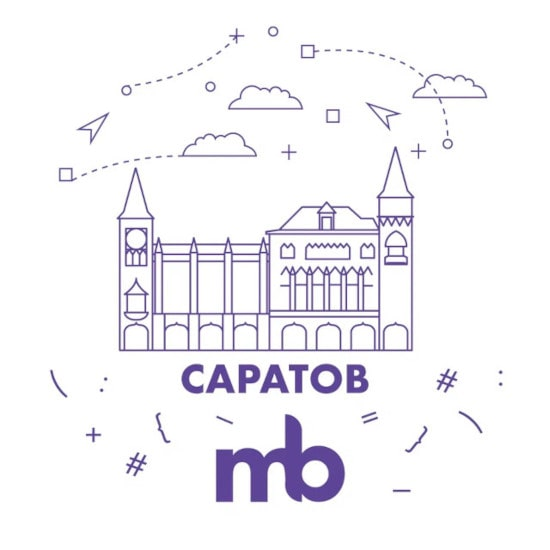
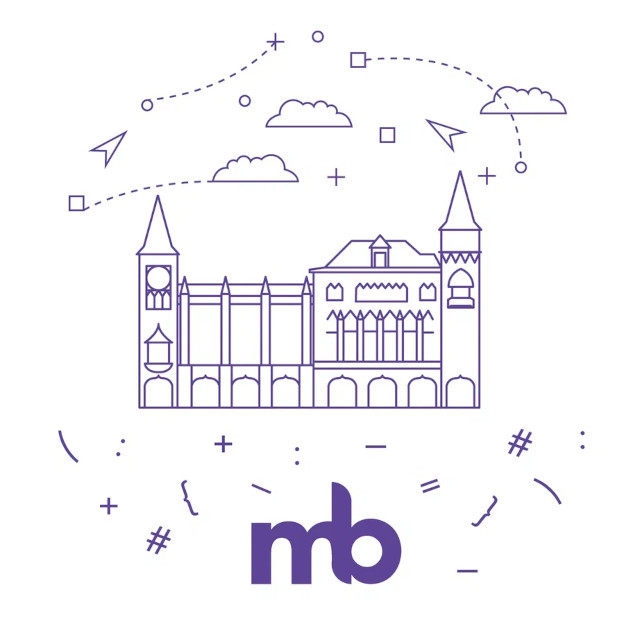
Update map and community page.

Changed region(s): [[0.3091, 0.6491, 0.68, 0.7418]]

diff --git a/apps/website/src/assets/scss/pages/community.scss b/apps/website/src/assets/scss/pages/community.scss
@@ -13,17 +13,93 @@
  * See the License for the specific language governing permissions and
  * limitations under the License.
  */
- 
+
 .CommunityPage .ContentPage .NotFoundLottie {
     width: 315px;
     margin: -53px auto -96px auto;
 }
 
-.CommunityPage .ContentPage .CityImage img {
-    width: 100%;
+.CommunityPage .ContentPage .CityImage {
     border-radius: 20px;
+    background-color: white;
+    padding: 10px;
+    box-sizing: border-box;
+    position: relative;
+    height: 220px;
+    overflow: hidden;
+    width: 100%;
+}
+
+.CommunityPage .ContentPage .CityImage img {
+    border-radius: 20px;
+    position: absolute;
+    top: 50%;
+    left: 50%;
+    transform: translate(-50%, -50%);
+    z-index: 2;
+    height: 100%;
+}
+
+.CommunityPage .ContentPage .CityImage .MuiCircularProgress-root {
+    position: absolute;
+    top: calc(50% - 10px);
+    left: calc(50% - 10px);
 }
 
 .ThemeDark .CommunityPage .ContentPage .CityImage img {
     opacity: 0.9;
+}
+
+// Chips Expert
+.ContentPage .CountryChips .MuiChip-root {
+    color: white;
+    border: none;
+}
+
+.ContentPage .CountryChips .MuiChip-root {
+    background-color: #4f4f4f;
+}
+
+.ContentPage .CountryChips .MuiChip-root.Country-Армения {
+    background-color: #ed941b;
+}
+
+.ContentPage .CountryChips .MuiChip-root.Country-Беларусь {
+    background-color: #01782E;
+}
+
+.ContentPage .CountryChips .MuiChip-root.Country-Грузия {
+    background-color: #F60003;
+}
+
+.ContentPage .CountryChips .MuiChip-root.Country-Казахстан {
+    background-color: #01AAC4;
+}
+
+.ContentPage .CountryChips .MuiChip-root.Country-Кыргызстан {
+    background-color: #dfbd00;
+}
+
+.ContentPage .CountryChips .MuiChip-root.Country-ОАЭ {
+    background-color: #020708;
+}
+
+.ContentPage .CountryChips .MuiChip-root.Country-Россия {
+    background-color: #061A75;
+}
+
+.ContentPage .CountryChips .MuiChip-root.Country-Таджикистан {
+    background-color: #018f00;
+}
+
+.ContentPage .CountryChips .MuiChip-root.Country-Тайланд {
+    background-color: #1c44ad;
+}
+
+.ContentPage .CountryChips .MuiChip-root.Country-Турция {
+    background-color: #bb0c17;
+}
+
+.ContentPage .CountryChips .MuiChip-root.Country-Узбекистан {
+    background-color: #0094AF;
 }

diff --git a/apps/website/src/pages/community/elements/BlockCities.js b/apps/website/src/pages/community/elements/BlockCities.js
@@ -40,6 +40,8 @@ import {
     Select,
     TextField,
     Typography,
+    CircularProgress,
+    Chip,
 } from '@mui/material';
 
 export function BlockCities(props) {
@@ -66,7 +68,7 @@ export function BlockCities(props) {
     const content = []
     props.cities?.forEach((item) => {
         // Get localization data
-        const fullName = `${Helper.locate(item, 'name', language)} ${Helper.locate(item, 'name', language)}`
+        const fullName = Helper.locate(item, 'name', language)
         const countryName = Helper.locate(item.country, 'name', language)
 
         // Filter country
@@ -88,8 +90,22 @@ export function BlockCities(props) {
                         <CardContent>
                             <Stack spacing={1.5}>
                                 <Box className={'CityImage'}>
-                                    <img src={item.image} alt={fullName} />
+                                    <Stack>
+                                        <img src={item.image} alt={fullName} />
+                                        <CircularProgress size={24} />
+                                    </Stack>
                                 </Box>
+                                <Typography gutterBottom variant="h5" component="div" sx={{
+                                    overflow: 'hidden',
+                                    textOverflow: 'ellipsis'
+                                }}>
+                                    {fullName}
+                                </Typography>
+
+                                <Stack className={'CountryChips'} spacing={0.5} direction={'row'} sx={{marginTop: 1.6}}>
+                                    <Chip className={`Country-${item.country.name}`} label={countryName} variant="outlined" />
+                                </Stack>
+
                                 <Stack direction={'row'} justifyContent="flex-end">
                                     <Button
                                         color='primary'

diff --git a/apps/website/src/pages/home/elements/BlockAbout.js b/apps/website/src/pages/home/elements/BlockAbout.js
@@ -15,7 +15,13 @@
  */
 
 import * as React from 'react';
-import {DataImages, LocalizationContext, RouteContext} from '../../../base';
+import {
+    DataImages,
+    LocalizationContext,
+    RouteContext,
+    useCacheStorage,
+    CacheKeys,
+} from '../../../base';
 import {
     useTheme,
     useMediaQuery,
@@ -31,6 +37,7 @@ export function BlockAbout(props) {
     const isLG = useMediaQuery(theme.breakpoints.down('lg'))
     const {t} = React.useContext(LocalizationContext)
     const {route, routes} = React.useContext(RouteContext)
+    const darkMode = useCacheStorage(CacheKeys.darkMode, false)
 
     return (
         <Box className={'BlockAbout'} sx={{ textAlign: isLG ? 'center' : 'inherit', overflow: 'hidden' }} >
@@ -65,7 +72,10 @@ export function BlockAbout(props) {
                 </Grid>
                 <Grid item xl={6} lg={6} md={12} sm={12} xs={12}>
                     <Box sx={{width: '100%', textAlign: 'center'}}>
-                        <img style={{width: '100%', maxWidth: '600px', maxHeight: '330px'}} src={DataImages.home.map} alt='Map' />
+                        <img
+                            style={{width: '100%', maxWidth: '600px', maxHeight: '330px'}}
+                            src={darkMode ? DataImages.home.map_dark : DataImages.home.map_light}
+                            alt='Map' />
                     </Box>
                 </Grid>
             </Grid>

diff --git a/apps/website/src/pages/experts/elements/BlockExperts.js b/apps/website/src/pages/experts/elements/BlockExperts.js
@@ -42,6 +42,7 @@ import {
     Typography,
     CardMedia,
     Chip,
+    CircularProgress,
 } from '@mui/material';
 import {AppConf} from "../../../conf/AppConf";
 
@@ -91,13 +92,19 @@ export function BlockExperts(props) {
                             }
                         }
                     }}>
-                        <CardMedia
-                            sx={{ height: isSM ? 560 : 380 }}
-                            image={`${AppConf.apiUrl}${item.image}`}
-                            title={fullName}
-                        />
+                        <Box className={'ExpertImage'}>
+                            <CardMedia
+                                sx={{ height: isSM ? 560 : 380 }}
+                                image={`${AppConf.apiUrl}${item.image}`}
+                                title={fullName}
+                            />
+                            <CircularProgress size={24} />
+                        </Box>
                         <CardContent>
-                            <Typography gutterBottom variant="h5" component="div">
+                            <Typography gutterBottom variant="h5" component="div" sx={{
+                                overflow: 'hidden',
+                                textOverflow: 'ellipsis'
+                            }}>
                                 {fullName}
                             </Typography>
 

diff --git a/apps/website/src/base/data/DataImages.js b/apps/website/src/base/data/DataImages.js
@@ -20,7 +20,8 @@ import common_rozov from '../../assets/images/common/photo1704995037.jpeg';
 import common_gladkov from '../../assets/images/common/photo1704995038.jpeg';
 
 // Home
-import home_map from '../../assets/images/home/map.png';
+import home_map_dark from '../../assets/images/home/map_dark.png';
+import home_map_light from '../../assets/images/home/map_light.png';
 import home_slider_1 from '../../assets/images/home/slider/photo1718970610.jpeg';
 import home_slider_2 from '../../assets/images/home/slider/photo1719067445.jpeg';
 import home_slider_3 from '../../assets/images/home/slider/photo1719124963.jpeg';
@@ -40,7 +41,8 @@ export const DataImages = {
         gladkov: common_gladkov,
     },
     home: {
-        map: home_map,
+        map_light: home_map_light,
+        map_dark: home_map_dark,
         slider: [
             home_slider_1,
             home_slider_2,

diff --git a/apps/website/src/assets/scss/pages/experts.scss b/apps/website/src/assets/scss/pages/experts.scss
@@ -27,3 +27,17 @@
 .ThemeDark .ExpertsPage .ContentPage .CityImage img {
     opacity: 0.9;
 }
+
+.ExpertsPage .ContentPage .ExpertImage {
+    position: relative;
+}
+.ExpertsPage .ContentPage .ExpertImage .MuiCardMedia-root {
+    position: relative;
+    z-index: 2;
+}
+
+.ExpertsPage .ContentPage .ExpertImage .MuiCircularProgress-root {
+    position: absolute;
+    top: calc(50% - 10px);
+    left: calc(50% - 10px);
+}

diff --git a/apps/website/src/assets/scss/pages/expert.scss b/apps/website/src/assets/scss/pages/expert.scss
@@ -13,7 +13,7 @@
  * See the License for the specific language governing permissions and
  * limitations under the License.
  */
- 
+
 .ExpertPage .ContentPage .LogoExpert {
     max-width: 300px;
     border-radius: 20px;

diff --git a/apps/website/src/pages/community/CommunityPage.js b/apps/website/src/pages/community/CommunityPage.js
@@ -23,9 +23,6 @@ import {
     PageError500,
     PageLoader,
     ScrollRecovery,
-    CacheKeys,
-    CacheStorage,
-    useCacheStorage,
 } from '../../base';
 import {
     useTheme,

diff --git a/apps/website/src/pages/experts/ExpertsPage.js b/apps/website/src/pages/experts/ExpertsPage.js
@@ -23,8 +23,6 @@ import {
     PageLoader,
     PageError500,
     ScrollRecovery,
-    CacheKeys,
-    useCacheStorage
 } from '../../base';
 import {
     useTheme,
